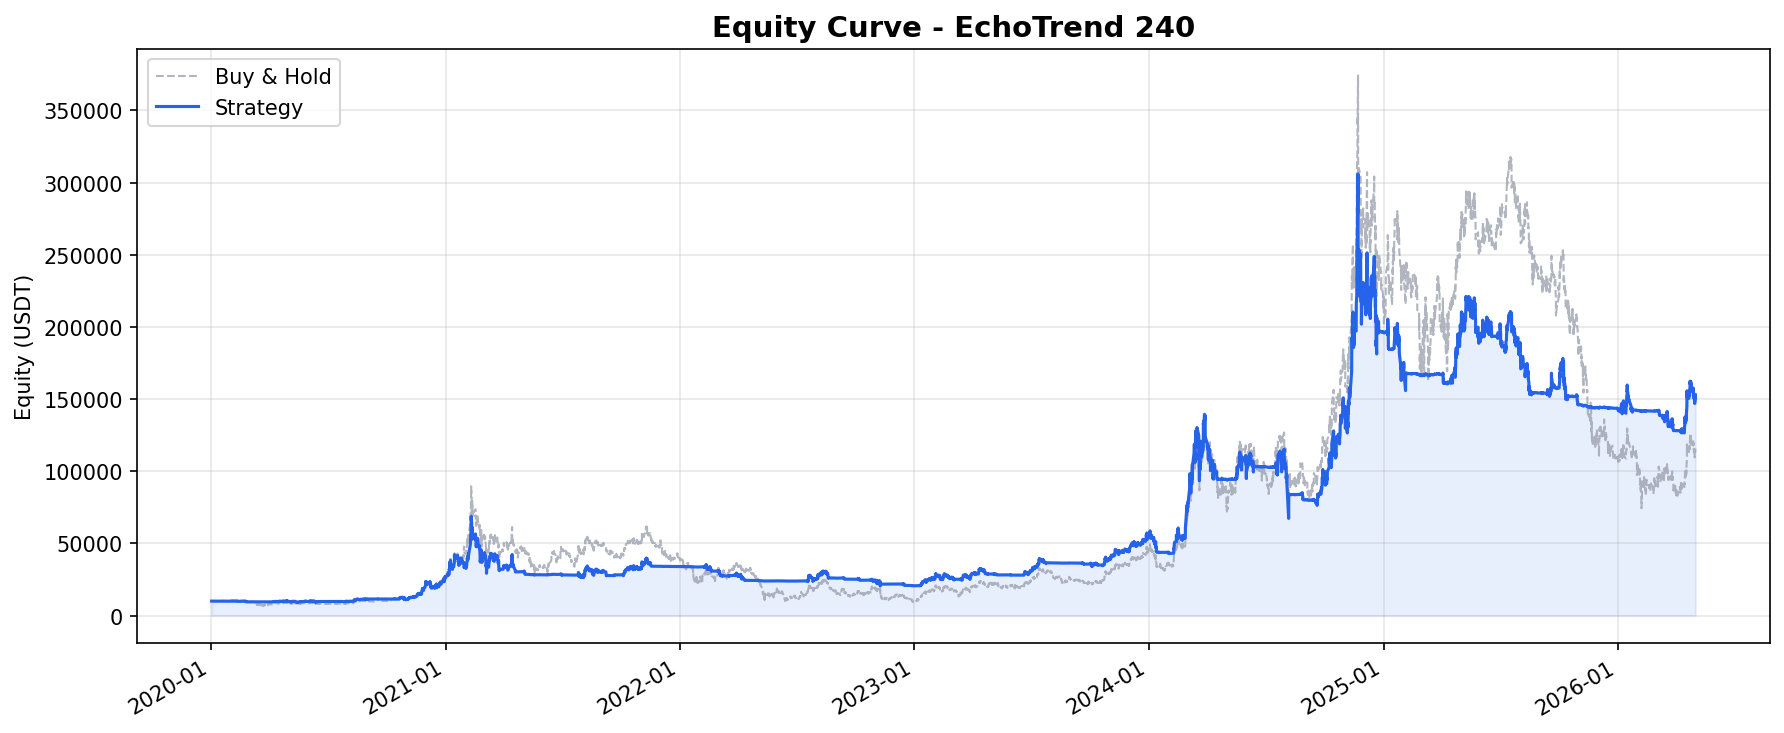
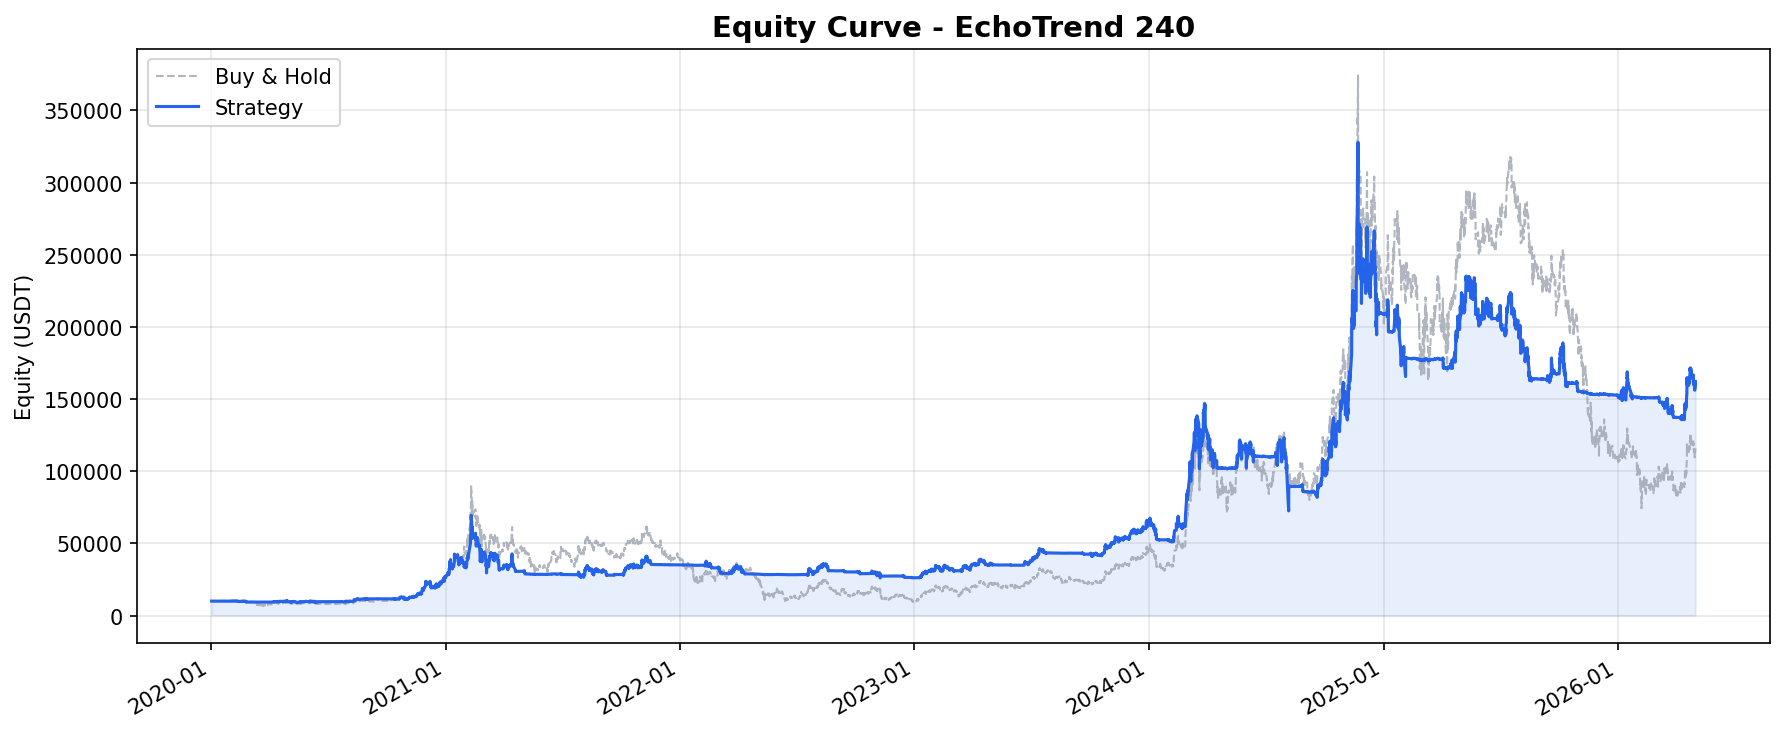
fix: add interval-covering fallback for QQQ 1H data (5m→1h resample)
QQQ_1h.csv only starts 2024-04-18 but QQQ_5m.csv covers from 2020-01.
load_local_history_by_name now detects finer-grained files and resamples
to fill the gap, matching source project's covering behavior.

EchoTrend 3Y/5Y metrics now use full QQQ history.

Changed region(s): [[0.6474, 0.3001, 0.9557, 0.6903], [0.3391, 0.6903, 0.6783, 0.8104]]

diff --git a/pipeline/data_fetcher.py b/pipeline/data_fetcher.py
@@ -64,24 +64,74 @@ def _fetch_yfinance(ticker: str, period: str = "730d", interval: str = "1h") -> 
     return hist.sort_values("timestamp").reset_index(drop=True)
 
 
+_INTERVAL_COVERING = {
+    "1h": ["5m", "15m", "30m"],
+}
+
+
+def _resample_to_target(df: pd.DataFrame, source_freq: str, target_freq: str) -> pd.DataFrame:
+    """Resample finer-grained data to target frequency."""
+    tmp = df.set_index("timestamp").sort_index()
+    resampled = tmp.resample(target_freq, offset="0h").agg({
+        "open": "first",
+        "high": "max",
+        "low": "min",
+        "close": "last",
+        "volume": "sum",
+    }).dropna()
+    return resampled.reset_index()
+
+
 def load_local_history_by_name(
     filename: str,
     target_bar: str = "1H",
 ) -> pd.DataFrame:
     """Load a named local history CSV from the normalized data directory.
 
-    Falls back to Yahoo Finance when the local file is unavailable (e.g. in CI).
+    When the target file exists but a finer-grained file provides longer
+    history (e.g. QQQ_5m.csv covers 2020+ while QQQ_1h.csv starts 2024),
+    the finer file is resampled and prepended to fill the gap.
 
-    Args:
-        filename: CSV filename (e.g., "MSTR_1h.csv", "BTC-USD_1h.csv").
-        target_bar: Target candle interval for resampling.
-
-    Returns:
-        DataFrame with ['timestamp', 'open', 'high', 'low', 'close', 'volume'].
+    Falls back to Yahoo Finance when no local file is available (e.g. in CI).
     """
     path = LOCAL_HISTORY_PATH.parent / filename
+    base_df = None
+
     if path.exists():
-        return load_local_history(path=path, target_bar=target_bar)
+        base_df = load_local_history(path=path, target_bar=target_bar)
+
+    # Interval-covering: try finer-grained files to extend history
+    target_lower = target_bar.lower()
+    covering_intervals = _INTERVAL_COVERING.get(target_lower, [])
+    stem = filename.rsplit("_", 1)[0]  # e.g. "QQQ" from "QQQ_1h.csv"
+
+    for finer in covering_intervals:
+        finer_file = f"{stem}_{finer}.csv"
+        finer_path = LOCAL_HISTORY_PATH.parent / finer_file
+        if not finer_path.exists():
+            continue
+
+        # Always resample finer data to target frequency
+        finer_raw = load_local_history(path=finer_path, target_bar=target_bar)
+        if target_lower != finer:
+            finer_raw = _resample_to_target(finer_raw, finer, target_lower)
+
+        if base_df is not None:
+            base_start = base_df["timestamp"].min()
+            earlier = finer_raw[finer_raw["timestamp"] < base_start]
+            if not earlier.empty:
+                print(f"[data_fetcher] Covering {filename} with {finer_file}: "
+                      f"prepending {len(earlier)} bars before {base_start}")
+                base_df = pd.concat([earlier, base_df], ignore_index=True)
+                base_df = base_df.drop_duplicates(subset="timestamp").sort_values("timestamp").reset_index(drop=True)
+            break
+        else:
+            print(f"[data_fetcher] {filename} not found, resampling from {finer_file}")
+            base_df = finer_raw
+            break
+
+    if base_df is not None:
+        return base_df
 
     ticker = _YFINANCE_SYMBOL_MAP.get(filename)
     if ticker:
